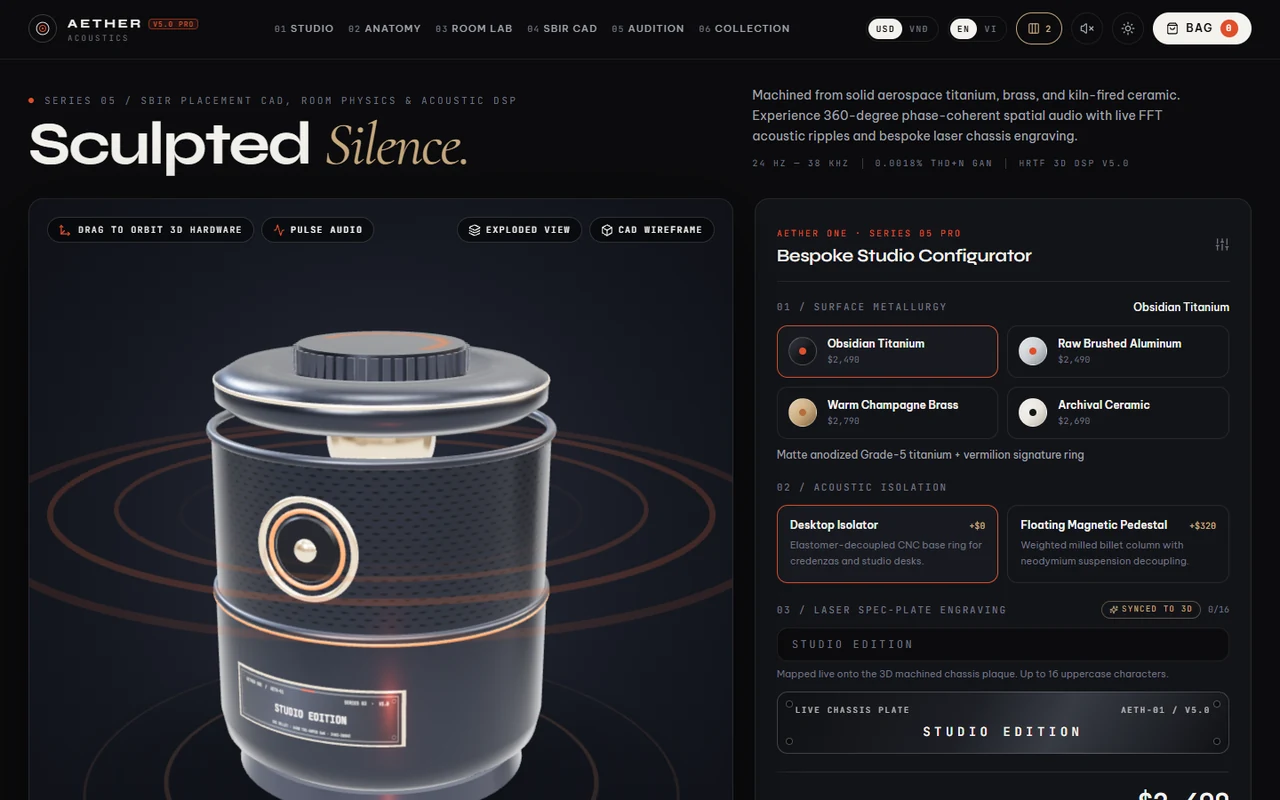
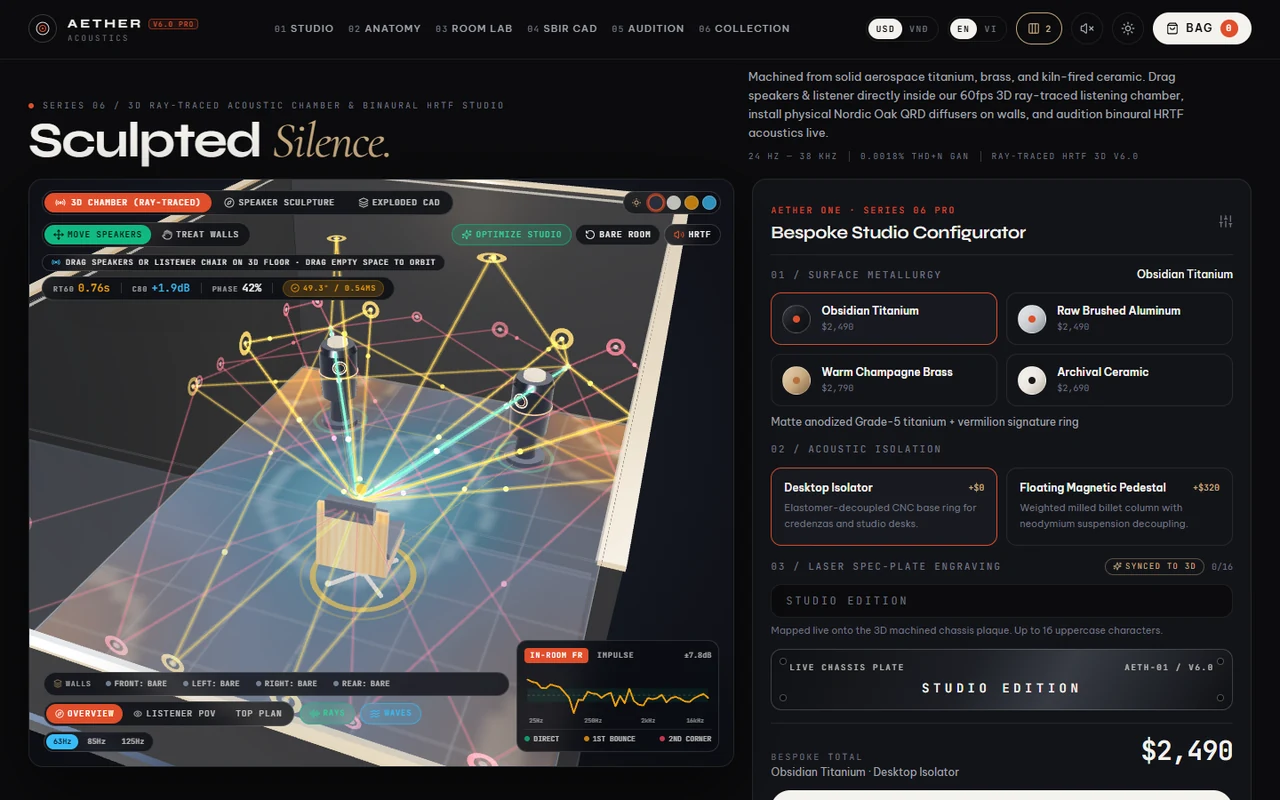
feat(v9.0): sync 6 Frontier Flagships (Chronos v4, Aether v6, AegisPulse v7, Maison v7, FleetPulse v4, Verdict v6) & 4,500 CI

diff --git a/src/engines/catalog.ts b/src/engines/catalog.ts
@@ -27,14 +27,14 @@ export const CATALOG_PRODUCTS: TemplateProduct[] = [
   {
     id: 'maison-vera',
     sku: 'TVT-3D-01',
-    name: 'Maison Véra 3D v6.0',
+    name: 'Maison Véra 3D v7.0',
     subtitle: {
-      vi: 'Website Thời Trang & Kính Mắt 3D HDRI, Tròng UV & Đo Khuôn Mặt',
-      en: 'Luxury 3D HDRI Eyewear, UV Polarized Lens Lab & Bespoke Fit',
+      vi: 'Thử Kính 3D Virtual Try-On, Webcam AR, Tròng UV 0–11 & Phân Cực Malus',
+      en: 'Live 3D Virtual Try-On Studio, Webcam AR, UV 0–11 Photochromic & Malus Glare',
     },
     tagline: {
-      vi: 'Trình diễn gọng titan 3D phản chiếu HDRI studio, mô phỏng tròng đổi màu UV/phân cực trực tiếp, phân tích dáng khuôn mặt & Lookbook VIP.',
-      en: 'PMREM Studio HDRI titanium 3D eyewear, photochromic UV & polarized lens physics simulator, face-shape fit studio & private client lookbook.',
+      vi: 'Studio Thử Kính 3D Parisian: tượng điêu khắc Alabaster xoay 6-DOF đeo đúng kính titan vừa cấu hình, 4 dáng mặt + điểm Fit %, Webcam AR trực tiếp, kéo chỉ số UV 0–11 đổi màu tròng & màn cắt chói phân cực Malus -99.4%.',
+      en: 'Parisian 3D Virtual Try-On Studio: sculpted Travertine bust wearing your live-configured titanium frame across 4 face archetypes + Atelier Fit %, on-demand Webcam AR, UV 0–11 photochromic darkening & Malus -99.4% glare split curtain.',
     },
     category: 'commerce-3d',
     categoryLabel: {
@@ -50,38 +50,38 @@ export const CATALOG_PRODUCTS: TemplateProduct[] = [
     liveUrl: 'https://tvt987.github.io/maison-vera/',
     previewImage: './media/maison-vera.webp',
     featuredRank: 14,
-    stack: ['.NET 10', 'Optical Rx Lab', '1.50 vs 1.74', 'PMREM 3D'],
+    stack: ['.NET 10', 'Three.js 3D Try-On', 'Webcam AR', 'UV + Malus'],
     deliverables: {
       vi: [
-        'Tùy biến toàn bộ nhận diện thương hiệu, màu sắc, bộ ảnh và SKU sản phẩm',
-        'Trình xoay 3D PBR ánh sáng studio mượt 60fps trên Desktop & Mobile',
-        'Giỏ hàng, mã ưu đãi, đặt lịch thử kính tại boutique & form đơn hàng',
+        'Studio Thử Kính 3D Virtual Try-On (4 dáng mặt, đo PD, chấm điểm Fit %) & bật Webcam AR trực tiếp',
+        'Kéo chỉ số UV 0–11 xem tròng Photochromic tối màu trực tiếp + màn cắt chói Riviera phân cực Malus -99.4%',
+        'Xuất ảnh chân dung thử kính Editorial 1200×800 PNG + Chế độ tách lớp 3D CAD & Lookbook Paris',
         'Triển khai Hosting, gắn Domain riêng, SSL & tối ưu SEO OpenGraph',
       ],
       en: [
-        'Complete brand customization across typography, palette, imagery, and SKUs',
-        '60fps WebGL PBR 3D studio showcase calibrated for desktop & mobile',
-        'Shopping bag, promo code engine, private fitting booking & order capture',
+        'Live 3D Virtual Try-On Studio (4 face shapes, PD fit score) plus privacy-first browser Webcam AR',
+        'Real-time UV 0–11 photochromic lens darkening & draggable Malus -99.4% Riviera glare split curtain',
+        '1-click 1200×800 Editorial Try-On Portrait PNG export, 3D CAD exploded view & Parisian lookbook',
         'Custom domain deployment, SSL, CI/CD workflow & SEO OpenGraph optimization',
       ],
     },
     architectureNote: {
-      vi: 'Full-Stack Monorepo .NET 10 + Three.js PMREM HDRI & Optical Rx Lab (1.50 vs 1.74), OpenAPI 3.1 + Docker sẵn sàng vận hành.',
-      en: 'Full-Stack .NET 10 monorepo pairing PMREM 3D eyewear, Optical Rx Lab (1.50 vs 1.74), OpenAPI 3.1 & multi-stage Docker.',
+      vi: 'Full-Stack Monorepo .NET 10 + Studio Thử Kính 3D Three.js PMREM, Webcam AR 6-DOF, Photochromic UV 0–11 & Optical Rx Lab.',
+      en: 'Full-Stack .NET 10 monorepo pairing Three.js PMREM 3D Virtual Try-On, Webcam AR 6-DOF pose smoothing, UV 0–11 & Optical Rx Lab.',
     },
-    metricsBadge: '3D HDRI TITANIUM · UV LENS LAB',
+    metricsBadge: '3D VIRTUAL TRY-ON · WEBCAM AR · UV 0–11',
   },
   {
     id: 'aether-acoustics',
     sku: 'TVT-3D-02',
-    name: 'Aether Acoustics 3D v5.0',
+    name: 'Aether Acoustics 3D v6.0',
     subtitle: {
-      vi: 'Website Âm Thanh 3D, Radar Không Gian HRTF & Phòng RT60',
-      en: '3D Spatial Audio, Binaural HRTF Radar & Room RT60 Acoustic Lab',
+      vi: 'Phòng Nghe 3D Ray-Traced Bắn Tia Âm, Lắp Gỗ Tán Âm QRD 3D & HRTF',
+      en: 'Live 3D Ray-Traced Acoustic Chamber, Install 3D Oak QRD Diffusers & HRTF',
     },
     tagline: {
-      vi: 'Radar điểm ngọt âm thanh không gian HRTF kéo thả, mô phỏng vật liệu tiêu âm phòng nghe tính RT60, đồ thị đáp tuyến tần số & THD+N.',
-      en: 'Interactive Binaural 3D HRTF soundstage radar, room material RT60 physics simulator, live 20Hz–20kHz frequency response & THD+N.',
+      vi: 'Phòng nghe 3D Ray-Traced 60fps: chùm tia âm phản xạ 3 bậc bắn thật từ loa dội tường, bản đồ sóng đứng dưới sàn, kéo loa/ghế trực tiếp trong 3D & click tường lắp tấm gỗ tán âm Oak QRD 3D giảm RT60 0.76s -> 0.32s.',
+      en: '60fps 3D Ray-Traced Acoustic Chamber: volumetric 3-order reflected sound beams, live floor standing-wave heatmap, drag speakers/chair in 3D & click walls to mount physical 3D Oak QRD diffusers dropping RT60 from 0.76s to 0.32s.',
     },
     category: 'commerce-3d',
     categoryLabel: {
@@ -97,26 +97,26 @@ export const CATALOG_PRODUCTS: TemplateProduct[] = [
     liveUrl: 'https://tvt987.github.io/aether-acoustics/',
     previewImage: './media/aether-acoustics.webp',
     featuredRank: 16,
-    stack: ['.NET 10', 'Room Modes Lab', 'Sabine RT60', 'Biquad DSP'],
+    stack: ['.NET 10', 'Three.js Ray-Traced', '3D Oak QRD', 'Binaural HRTF'],
     deliverables: {
       vi: [
-        'Bản dựng sản phẩm 3D vật liệu nhôm/titan và chuyển đổi phiên bản màu trực tiếp',
-        'Module thử âm học DSP trực quan tạo khác biệt tuyệt đối trước đối thủ',
-        'Trang cấu hình phiên bản, bảng thông số kỹ thuật & giỏ hàng đặt mua',
-        'Tối ưu tải tài nguyên WebP/DRACO, bàn giao trọn bộ hướng dẫn vận hành',
+        'Phòng nghe 3D Ray-Traced hiển thị tia âm trực tiếp + phản xạ tường 2 bậc + sóng đứng áp suất dưới sàn',
+        'Kéo thả loa & ghế nghe trực tiếp trong 3D (Cardas Sweet Spot) + Click tường lắp gỗ tán âm QRD & Bass Trap 3D',
+        'Âm thanh Binaural HRTF Web Audio đổi sắc thái thật giữa phòng trần bê tông và phòng đã xử lý âm học',
+        'Kèm sân khấu soi cận cảnh loa 3D PBR tách lớp CAD, khắc laser thân máy & tối ưu tải WebP/Lazy-Split',
       ],
       en: [
-        'Brushed titanium/anodized 3D hardware viewer with instant colorway switching',
-        'Interactive acoustic DSP preview module elevating product conversion',
-        'Spec matrix, colorway configurator, and streamlined checkout pipeline',
-        'Compressed asset pipeline with full deployment & handover documentation',
+        '3D Ray-Traced Listening Chamber visualizing direct beams, 2-order wall bounces & floor standing-wave modes',
+        'Direct 3D drag of speakers & listener chair (Cardas Sweet Spot) + click walls to mount 3D Oak QRD diffusers & bass traps',
+        'Live Binaural HRTF Web Audio DSP shifting audibly between bare concrete and treated studio acoustics',
+        'Includes sculptural 3D PBR speaker closeup, exploded CAD, laser chassis plaque & lazy-split bundle',
       ],
     },
     architectureNote: {
-      vi: 'Full-Stack Monorepo .NET 10 + Room Modes Lab, mô phỏng Sabine RT60 & Web Audio Biquad DSP không phụ thuộc thư viện nặng.',
-      en: 'Full-Stack .NET 10 monorepo combining Room Modes Lab, Sabine RT60 physics & zero-dependency Biquad Web Audio DSP.',
+      vi: 'Full-Stack Monorepo .NET 10 + Phòng nghe 3D Three.js Ray-Traced, lắp tấm tán âm QRD 3D, Sabine RT60 & Web Audio HRTF.',
+      en: 'Full-Stack .NET 10 monorepo combining Three.js 3D ray-traced acoustics, physical 3D QRD diffusers, Sabine RT60 & Web Audio HRTF.',
     },
-    metricsBadge: '3D FFT AUDIO · ROOM RT60 EQ',
+    metricsBadge: '3D RAY-TRACED CHAMBER · OAK QRD · HRTF',
   },
   {
     id: 'lumina-medspa',
@@ -359,14 +359,14 @@ export const CATALOG_PRODUCTS: TemplateProduct[] = [
   {
     id: 'verdict-graph',
     sku: 'TVT-AI-08',
-    name: 'Verdict Graph AI v5.0',
+    name: 'Verdict Graph AI v6.0',
     subtitle: {
-      vi: 'Hệ Thống Điều Phối Multi-Agent DAG, Time-Travel Diff & FinOps',
-      en: 'Multi-Agent DAG Builder, Time-Travel Diff & LLM FinOps Router',
+      vi: 'Canvas Kéo-Thả Agent 60fps, Tiêm Tấn Công Trên Dây, Breakpoint & Fork Race',
+      en: 'Drag-and-Wire Multi-Agent Debugger, Edge Attack Injector, Breakpoints & Fork Race',
     },
     tagline: {
-      vi: 'Trình dựng luồng AI Agent đa bước, nhân bản nhánh Time-Travel so sánh Diff, bộ định tuyến chi phí đa mô hình & kiểm thử Red-Team OWASP Top-10.',
-      en: 'Interactive multi-agent DAG builder, time-travel branch diffing, multi-model FinOps cost/latency router & OWASP LLM Top-10 Red-Team suite.',
+      vi: 'LangSmith × xyflow Visual Debugger: kéo-thả 7 node agent nối dây động 60fps, click dây tiêm Prompt Injection INJ-EXFIL-001 bị OWASP chặn 0B, đặt Red Breakpoint chỉnh sống State JSON & đua song song 2 nhánh Time-Travel Fork (-54% chi phí).',
+      en: 'LangSmith × xyflow Visual Debugger: drag-and-rewire 7 agent nodes at 60fps, click any wire to inject Prompt Injection / 429 mid-flight deflected by OWASP Firewall (0B leak), toggle Red Breakpoints to edit live State JSON & race Dual Time-Travel Forks (-54% cost).',
     },
     category: 'saas-ai',
     categoryLabel: {
@@ -382,38 +382,38 @@ export const CATALOG_PRODUCTS: TemplateProduct[] = [
     liveUrl: 'https://tvt987.github.io/verdict-graph/',
     previewImage: './media/verdict-graph.webp',
     featuredRank: 6,
-    stack: ['FastAPI', 'OWASP Firewall', 'Token Breaker', 'DAG Replay'],
+    stack: ['FastAPI', 'Drag-Wire AG-UI', 'OWASP Shield', 'Dual Fork Race'],
     deliverables: {
       vi: [
-        'Đồ thị trực quan điều phối các nút Agent, Tool-Calling, Reranker & Human-in-the-Loop',
-        'Bảng giám sát chi phí Token, độ trễ từng bước (P50/P95) & nhật ký audit đầy đủ',
-        'Bộ kiểm thử đánh giá tự động chất lượng câu trả lời LLM chống ảo giác',
-        'Sẵn sàng kết nối FastAPI, LangGraph, OpenAI / Gemini / Ollama doanh nghiệp',
+        'Canvas đa tác tử kéo-thả node 60fps kèm luồng gói tin AG-UI SSE / MCP 2.0 JSON-RPC bay thực tế trên dây',
+        'Click thẳng vào dây nối để tiêm gói Prompt-Injection / 429 / Hallucination kiểm chứng tường lửa OWASP LLM10',
+        'Đặt Red Breakpoint ● BP tạm dừng giữa luồng, chỉnh sống Agent State JSON & bấm Step Over hoặc Fork',
+        'Đua song song 2 nhánh Time-Travel Fork (Main vs Guarded Cascade: -54% USD, +0.38 Groundedness)',
       ],
       en: [
-        'Visual DAG inspector for multi-agent steps, tool calls, rerankers & human approvals',
-        'Real-time token budget accounting, step latency profiling (P50/P95) & audit trails',
-        'Automated LLM verdict evaluation harness against hallucination & policy drift',
-        'Adapter-ready frontend for FastAPI, LangGraph, Gemini, OpenAI, or local vLLM',
+        '60fps draggable multi-agent canvas with live AG-UI SSE & MCP 2.0 JSON-RPC packets traveling curved wires',
+        'Click-edge mid-flight fault injector (Prompt Injection / 429 / Hallucination) testing OWASP LLM10 deflection',
+        'Per-node Red Breakpoints pausing mid-flight with live editable State JSON & Step Over / Fork controls',
+        'Side-by-side Dual-Branch Time-Travel Fork Race proving -54% USD cost & 0.99 groundedness lift',
       ],
     },
     architectureNote: {
-      vi: 'Full-Stack Monorepo FastAPI chuẩn AI Ops: tường lửa OWASP LLM Top-10, ngắt mạch Token Breaker & phát lại DAG Time-Travel.',
-      en: 'Full-Stack FastAPI AI Ops monorepo with OWASP LLM firewall, automatic Token Circuit Breaker & deterministic DAG replay.',
+      vi: 'Full-Stack Monorepo FastAPI chuẩn LangGraph × AG-UI: Canvas kéo-thả node, tiêm tấn công trên dây, OWASP LLM10 & Dual Fork Race.',
+      en: 'Full-Stack FastAPI AI Ops monorepo uniting drag-and-wire AG-UI/MCP debugging, mid-flight OWASP LLM firewall & dual time-travel fork racing.',
     },
-    metricsBadge: 'MULTI-AGENT DAG · RED-TEAM',
+    metricsBadge: 'DRAG-WIRE DEBUGGER · OWASP · FORK RACE',
   },
   {
     id: 'aegispulse',
     sku: 'TVT-ENT-09',
-    name: 'AegisPulse SRE v6.0',
+    name: 'AegisPulse SRE v7.0',
     subtitle: {
-      vi: 'Kiến Trúc SRE Phân Tán .NET 10, Chaos Raft & Flamegraph',
-      en: 'Distributed .NET 10 SRE, Raft Chaos Injector & GC Flamegraph',
+      vi: 'Sàn Chaos-Scissors Cắt Dây Mạng 5 Vùng, Bầu Raft, Bão 500 Voucher & Jepsen DST',
+      en: 'DST Chaos-Scissors 5-Region Cluster, Live Raft Partition, 500-Req Storm & Jepsen',
     },
     tagline: {
-      vi: 'Bảng điều khiển SRE 5 khu vực toàn cầu: tiêm lỗi Chaos Raft Quorum, kéo tải 250K RPS trực tiếp, Flamegraph CPU/GC Pause & Hybrid RAG.',
-      en: '5-region Raft consensus Chaos Fault Injector, live 250K RPS stress slider, interactive CPU/GC Flamegraph profiler & enterprise Hybrid RAG.',
+      vi: 'Sân chơi Chaos phân tán chuẩn TigerBeetle DST: cầm kéo Scissors click cắt dây mạng dựng tường Partition Wall 2v3, đánh sập/hồi sinh node, xả bão 500 voucher so sánh Naive nổ leak vs Redis Lua + ROWVERSION 0% rò rỉ, tua Jepsen Timeline & Hybrid RAG.',
+      en: 'TigerBeetle-style DST Chaos Playground: click links with Chaos Scissors to sever 5 global regions with a live 2v3 Partition Wall, crash/revive nodes, blast 500-req voucher storms (Naive leaks vs Redis Lua 0% leak), scrub Jepsen Linearizability Timeline & Hybrid RAG.',
     },
     category: 'saas-ai',
     categoryLabel: {
@@ -429,26 +429,26 @@ export const CATALOG_PRODUCTS: TemplateProduct[] = [
     liveUrl: 'https://tvt987.github.io/aegispulse-distributed-sre/',
     previewImage: './media/aegispulse.webp',
     featuredRank: 5,
-    stack: ['.NET 10', '500-Req Race', '0.00% Leak', 'k6 5K RPS'],
+    stack: ['.NET 10', 'DST Chaos Scissors', 'Raft 5-Region', 'Redis Lua 0%'],
     deliverables: {
       vi: [
-        'Kiến trúc phân tán chịu tải cao kế thừa thực chiến hệ thống 700+ siêu thị',
-        'Bảng điều khiển SRE giám sát RPS, P99 latency, Circuit Breaker & chống nhân đôi voucher',
-        'Pipeline tìm kiếm Hybrid RAG (BM25 + Dense Vector + Reranking) cho tài liệu nội bộ',
-        'Kèm buổi tư vấn kiến trúc trực tiếp 1-1 với Solution Architect để áp dụng vào hệ thống thật',
+        'Sàn mô phỏng 5 vùng cụm phân tán 60fps: kéo Chaos Scissors cắt dây mạng, dựng tường Split-Brain 2v3 & bầu Raft',
+        'Xả bão 500 voucher đồng thời đối chiếu trực quan Naive RMW nổ double-spend vs Redis Lua + ROWVERSION 0% rò rỉ',
+        'Hệ thống Deterministic Simulation Testing (DST Seed phát lại 1:1) kèm thanh thời gian tuyến tính Jepsen 5 làn',
+        'Kèm Hybrid RAG SRE, Rate-Limiter Lab, SQL Execution Plan & tư vấn kiến trúc thực chiến 700+ siêu thị',
       ],
       en: [
-        'Battle-tested distributed system blueprint proven across 700+ retail stores',
-        'Live SRE control plane tracking RPS, P99 latency, circuit breakers & idempotent locks',
-        'Enterprise Hybrid RAG pipeline (BM25 + Dense Embeddings + Reranking)',
-        'Includes 1-on-1 architecture handover workshop for your engineering team',
+        '60fps 5-region distributed cluster arena: cut links with Chaos Scissors, trigger 2v3 Split-Brain & live Raft elections',
+        'Blast 500-req concurrent voucher storms contrasting Naive RMW leak explosions vs Redis Lua + ROWVERSION 0% leak',
+        'Deterministic Simulation Testing (editable DST Seed replay) with 5-track Jepsen Linearizability Time-Travel Scrubber',
+        'Includes Hybrid RAG SRE, Rate-Limiter Lab, SQL Execution Plan & 700+ store architecture handover',
       ],
     },
     architectureNote: {
-      vi: 'Full-Stack Monorepo .NET 10 kiểm chứng thực chiến 500-request concurrency race (0.00% double-spend leak) & kịch bản chịu tải k6 5K RPS.',
-      en: 'Full-Stack .NET 10 distributed SRE engine verified against 500-request race storms (0.00% leak) & k6 5K RPS load benchmarks.',
+      vi: 'Full-Stack Monorepo .NET 10 kết hợp Deterministic Simulation Testing (DST), kéo Chaos Scissors, Raft 5 vùng & Hybrid RAG.',
+      en: 'Full-Stack .NET 10 distributed SRE arena pairing Deterministic Simulation Testing (DST), Chaos Scissors, 5-region Raft & Hybrid RAG.',
     },
-    metricsBadge: '139K RPS .NET 10 · HYBRID RAG',
+    metricsBadge: 'DST CHAOS SCISSORS · RAFT · HYBRID RAG',
   },
   {
     id: 'aurelia-resort',
@@ -993,14 +993,14 @@ export const CATALOG_PRODUCTS: TemplateProduct[] = [
   {
     id: 'chronos-horology',
     sku: 'TVT-LUX-20',
-    name: 'Chronos 3D Watch v3.0',
+    name: 'Chronos 3D Watch v4.0',
     subtitle: {
-      vi: 'Bộ Máy Đồng Hồ Cơ Tourbillon 3D Chạy Thật, Âm Thanh 4Hz & Boutique Thụy Sĩ',
-      en: 'Working 3D Mechanical Tourbillon Calibre, 4Hz Escapement Synth & Swiss Boutique',
+      vi: 'Bàn Chế Tác Tourbillon 3D: Lên Cót Núm, Kính Lúp 10× & Nam Châm 15.000G',
+      en: 'Interactive 3D Watchmaker Bench: Wind Crown, 10× Loupe & 15,000G Magnet Lab',
     },
     tagline: {
-      vi: 'Siêu Phẩm 26,9 Triệu: Bộ máy đồng hồ cơ Tourbillon 3D Three.js hoạt động thật 60fps (bánh răng ăn khớp, cầu cân bằng 28,800 vph, tách 7 tầng máy, dạ quang Lume Night, âm thanh bộ thoát 4Hz Web Audio) & chứng nhận COSC A4.',
-      en: '26.9M Ultra-Flagship: Live animated 3D mechanical Tourbillon calibre (28,800 vph balance, meshed gear train, 7-layer exploded view, Lume Night, Web Audio 4Hz escapement synth) & COSC A4 certification.',
+      vi: 'Bàn Chế Tác Geneva 3D Tương Tác Thật: Vặn núm cót 3D lên dây 0→72h kèm tiếng bánh cóc Web Audio, bấm 2 nút Chronograph Flyback 3D, kéo kính lúp quang học 10× soi lồng Tourbillon 28,800 vph & kéo nam châm 15.000G 3D so sánh dây tóc Nivarox vs Silicon.',
+      en: 'Interactive Geneva 3D Watchmaker Bench: Wind the fluted 3D crown (0→72h) with Web Audio ratchet clicks, press 3D Flyback Chronograph pushers, drag a 10× optical magnifying loupe over the 28,800 vph tourbillon & stress-test with a 3D 15,000G magnet.',
     },
     category: 'commerce-3d',
     categoryLabel: { vi: 'Bán Hàng 3D & Nội Thất', en: '3D Commerce & Interior' },
@@ -1012,28 +1012,28 @@ export const CATALOG_PRODUCTS: TemplateProduct[] = [
     deliveryDaysMax: 8,
     liveUrl: 'https://tvt987.github.io/chronos-horology/',
     previewImage: './media/chronos-horology.webp',
-    previewBadge: '3D TOURBILLON CALIBRE · 4HZ AUDIO · 26.9M',
+    previewBadge: '3D WATCHMAKER BENCH · 10X LOUPE · 15,000G',
     featuredRank: 4,
-    stack: ['.NET 10', 'Timegrapher', '7-Layer Caliber', 'HMAC Vault'],
+    stack: ['.NET 10', 'Three.js 3D Watch', '10x Loupe', '15,000G Magnet'],
     deliverables: {
       vi: [
-        'Bộ máy Tourbillon 3D Three.js HDRI chạy thật: bánh răng ăn khớp tỷ số chính xác, tách 7 tầng máy & 7 góc camera macro',
-        'Chế độ dạ quang Super-LumiNova, bấm giờ Chronograph có Split-Lap & âm thanh bộ thoát 28.800 vph tổng hợp Web Audio',
-        'Phòng lab vật lý COSC 6 vị trí trọng lực, mô phỏng mô-men dây cót 72 giờ & khắc laser nắp đáy 3D thời gian thực',
-        'Tùy biến 4 kim loại quý (Vàng hồng 18K / Titan / Carbon / Platinum), Collector Vault & Chứng nhận COSC A4 QR',
+        'Tương tác cơ học 3D trực tiếp: vặn núm 3H lên dây cót 0→72h, bấm nút 2H/4H chạy Chronograph Flyback & tách 7 tầng máy',
+        'Kính lúp quang học 10× APO kéo soi trực tiếp lồng Tourbillon 28.800 vph (2.6× phóng đại sắc nét trên WebGL)',
+        'Phòng thử nam châm Neodymium 15.000 Gauss 3D kèm máy đo Witschi trực tiếp (Nivarox nhiễu đỏ vs Silicon Si-14 miễn nhiễm)',
+        'Tùy biến 4 kim loại quý, khắc laser nắp đáy 3D, Collector Vault HMAC-SHA256 (.NET 10) & Chứng nhận COSC A4',
       ],
       en: [
-        'Live Three.js HDRI mechanical Tourbillon calibre with meshed gear train, 7-layer explode slider & 7 macro cams',
-        'Super-LumiNova night mode, live Split-Lap Chronograph & synthesized 28,800 vph Web Audio escapement acoustics',
-        'ISO 3159 COSC 6-position accuracy lab, 72h barrel torque simulation & live 3D CanvasTexture caseback engraving',
-        '4 haute-horlogerie metals (18K Rose Gold, Grade-5 Ti, Forged Carbon, Pt950), Collector Vault & A4 COSC QR',
+        'Direct 3D mechanical interaction: wind 3H crown (0→72h), press 2H/4H Flyback Chronograph pushers & 7-layer explode scrubber',
+        'Draggable 10× APO optical watchmaker loupe magnifying the live 28,800 vph tourbillon escapement at crisp 2.6× zoom',
+        '3D 15,000 Gauss Neodymium magnet stress-test with live Witschi oscilloscope (Nivarox alarm vs Silicon Si-14 immunity)',
+        '4 haute-horlogerie metals, live 3D caseback engraving, .NET 10 HMAC Vault & printable A4 COSC certificate',
       ],
     },
     architectureNote: {
-      vi: 'Full-Stack Monorepo .NET 10 mô phỏng máy đo Timegrapher COSC, tách 7 tầng bộ máy Tourbillon 3D & kho chứng nhận bảo mật HMAC Vault.',
-      en: 'Full-Stack .NET 10 haute-horlogerie platform with COSC Timegrapher, 7-layer 3D Tourbillon caliber & HMAC Collector Vault.',
+      vi: 'Full-Stack Monorepo .NET 10 + Bàn chế tác Three.js 3D tương tác núm cót/Chronograph, kính lúp 10×, nam châm 15.000G & HMAC Vault.',
+      en: 'Full-Stack .NET 10 haute-horlogerie bench with Three.js 3D crown/chronograph physics, 10× optical loupe, 15,000G magnet & HMAC Vault.',
     },
-    metricsBadge: '3D TOURBILLON CALIBRE · 4HZ AUDIO · 26.9M',
+    metricsBadge: '3D WATCHMAKER BENCH · 10X LOUPE · 15,000G',
   },
   {
     id: 'orbitalflow-saas',
@@ -1128,14 +1128,14 @@ export const CATALOG_PRODUCTS: TemplateProduct[] = [
   {
     id: 'fleetpulse-gis',
     sku: 'TVT-GIS-25',
-    name: 'FleetPulse GIS Fleet v3.0',
+    name: 'FleetPulse GIS 3D v4.0',
     subtitle: {
-      vi: 'Điều Phối Đội Xe Bản Đồ Vector, Tối Ưu Tuyến CVRP & Chuỗi Lạnh -18°C',
-      en: 'Real-Time GIS Vector Fleet Control, CVRP 2-Opt Route Optimizer & Cold-Chain IoT',
+      vi: 'Bản Sao Số Sài Gòn 3D Skyline, Drone Lạnh Bay Vượt Ngập & Bẻ Tuyến A* <1ms',
+      en: 'Live 3D Saigon City Twin, Autonomous Cold-Chain Drones & Flood A* Reroute',
     },
     tagline: {
-      vi: 'Bản đồ điều phối đội xe toàn màn hình: thuật toán CVRP Clarke-Wright + 2-Opt cắt giảm 28,6% quãng đường trong 0,7ms, mô phỏng xe chạy thời gian thực, giám sát chuỗi lạnh -18°C & in lệnh điều vận A4.',
-      en: 'Full-viewport vector city GIS control room: Clarke-Wright + 2-Opt CVRP solver cutting route distance by 28.6% in 0.7ms, animated fleet telemetry, -18°C reefer fault drift & A4 dispatch manifest.',
+      vi: 'Trung tâm điều phối 3D deck.gl-style: Sài Gòn 3D (Landmark 81, Bitexco, cầu Ba Son), click thả mái vòm Ngập Mưa 3D ép xe tải lạnh bẻ tuyến A* <1ms & Drone tự hành cất cánh bay vòng cung vượt ngập cứu -60m SLA + khóa Drone Follow-Cam.',
+      en: 'Live 3D deck.gl-style Saigon Digital Twin (Landmark 81, Bitexco, Ba Son Bridge): click roads to drop Monsoon Flood Domes forcing <1ms A* re-routing while autonomous cold-chain drones fly elevated 3D arcs over floods saving 60m SLA + Drone Follow-Cam.',
     },
     category: 'enterprise-b2b',
     categoryLabel: { vi: 'Doanh Nghiệp, HR & FinTech', en: 'Enterprise, Logistics & FinTech' },
@@ -1147,28 +1147,28 @@ export const CATALOG_PRODUCTS: TemplateProduct[] = [
     deliveryDaysMax: 10,
     liveUrl: 'https://tvt987.github.io/fleetpulse-gis/',
     previewImage: './media/fleetpulse-gis.webp',
-    previewBadge: 'CVRP -28.6% KM · VECTOR GIS · -18°C',
+    previewBadge: '3D SAIGON DRONES · FLOOD A* <1MS · -18°C',
     featuredRank: 7,
-    stack: ['.NET 10', 'CVRP <1ms', 'Shift Scrub', 'PostGIS/MQTT'],
+    stack: ['.NET 10', 'Three.js 3D City', 'Drone Bypass', 'CVRP <1ms'],
     deliverables: {
       vi: [
-        'Bản đồ vector hành lang TP.HCM – Bình Dương – Đồng Nai có phóng to/thu nhỏ, vùng Geofence & xe di chuyển thật',
-        'Bộ giải tối ưu tuyến đa xe có tải trọng & nhiệt độ (Clarke-Wright + 2-Opt) so sánh Trước/Sau tức thì',
-        'Giám sát chuỗi lạnh -18°C/+4°C kèm nút tiêm sự cố kẹt hầm Thủ Thiêm, hỏng máy lạnh & chèn đơn gấp Rush Order',
-        'Tính nhiên liệu, chi phí vận hành, lượng CO2e tiết kiệm, xuất Manifest CSV BOM & Lệnh điều xe A4',
+        'Sài Gòn 3D Skyline tương tác 60fps: Landmark 81, Bitexco, cầu Ba Son, xe tải lạnh & 3 Drone tự hành bay cung 3D',
+        'Click thả vùng Ngập Mưa / Kẹt Xe 3D ép xe bẻ tuyến A* <1ms + Drone cất cánh bay vòng cung vượt ngập cứu SLA',
+        'Khóa Drone Follow-Cam / Street Chase bám sát trực tiếp phương tiện kèm HUD độ cao, nhiệt độ -18°C & chuyển 2D GIS',
+        'Tích hợp trọn bộ CVRP -28.6%, chuỗi lạnh MKT USP <1079>, TCO xe điện 60 tháng & .NET 10 PostGIS/MQTT',
       ],
       en: [
-        'Interactive pan/zoom vector logistics corridor map with geofences, live truck heading & Before/After route diff',
-        'Compartment-aware Clarke-Wright Savings + 2-Opt CVRP optimizer solving 24 stops in <1ms (-28.6% km)',
-        'Cold-chain thermal physics (-18°C/+4°C) with 1-click traffic congestion, reefer fault & rush order injectors',
-        'Fuel/cost/CO2e savings ledger, formula-safe UTF-8 BOM CSV manifest & printable A4 driver dispatch sheet',
+        '60fps 3D Saigon Urban Twin (Landmark 81, Bitexco, Ba Son Bridge) with live refrigerated vans & 3 quadcopter drones',
+        'Click roads to drop Monsoon Flood / Jam Hazard Domes forcing <1ms A* rerouting & elevated 3D drone air-bypass arcs',
+        'Cinematic Drone Follow-Cam & Street Chase tracking with live altitude/-18°C HUD + 1-click 2D Vector GIS mode',
+        'Includes CVRP -28.6% solver, USP <1079> Cold-Chain MKT, 60-mo EV TCO & .NET 10 PostGIS/MQTT API',
       ],
     },
     architectureNote: {
-      vi: 'Full-Stack Monorepo .NET 10 tối ưu tuyến CVRP <1ms, tua lại ca chạy Shift Scrub & kiến trúc PostGIS/MQTT chuỗi lạnh -18°C.',
-      en: 'Full-Stack .NET 10 GIS dispatch engine solving CVRP in <1ms with live Shift Scrub replay & PostGIS/MQTT cold-chain telemetry.',
+      vi: 'Full-Stack Monorepo .NET 10 + Bản sao số Sài Gòn 3D Three.js, Drone bay vượt ngập tự hành, A* CVRP <1ms & PostGIS/MQTT.',
+      en: 'Full-Stack .NET 10 GIS twin pairing a Three.js 3D Saigon skyline, autonomous flood-bypass drones, <1ms A* CVRP & PostGIS/MQTT.',
     },
-    metricsBadge: 'CVRP -28.6% KM · VECTOR GIS · -18°C',
+    metricsBadge: '3D SAIGON DRONES · FLOOD A* <1MS · -18°C',
   },
   {
     id: 'medcore-ehr',

diff --git a/src/engines/__tests__/catalog.test.ts b/src/engines/__tests__/catalog.test.ts
@@ -130,12 +130,12 @@ describe('Catalog Engine', () => {
     expect(engCount).toBe(6);
   });
 
-  it('counts architectural tech stacks accurately across all 26 monorepos (26 / 18 / 8 / 5 / 4)', () => {
+  it('counts architectural tech stacks accurately across all 26 monorepos (26 / 18 / 8 / 6 / 4)', () => {
     const stackCounts = countCatalogStacks(CATALOG_PRODUCTS);
     expect(stackCounts.all).toBe(26);
     expect(stackCounts.dotnet).toBe(18);
     expect(stackCounts.fastapi).toBe(8);
-    expect(stackCounts.threejs).toBe(5);
+    expect(stackCounts.threejs).toBe(6);
     expect(stackCounts['ai-rag']).toBe(4);
   });
 
@@ -153,7 +153,7 @@ describe('Catalog Engine', () => {
     expect(fastapi.some((p) => p.id === 'vectradoc-rag')).toBe(true);
   });
 
-  it('filters Three.js 3D PBR systems (5) and AI / RAG / MCP systems (4) deterministically', () => {
+  it('filters Three.js 3D PBR systems (6) and AI / RAG / MCP systems (4) deterministically', () => {
     const threejsIds = filterCatalogByStack(CATALOG_PRODUCTS, 'threejs')
       .map((p) => p.id)
       .sort();
@@ -161,6 +161,7 @@ describe('Catalog Engine', () => {
       'aeroforge-digital-twin',
       'aether-acoustics',
       'chronos-horology',
+      'fleetpulse-gis',
       'maison-vera',
       'velox-ev-motors',
     ]);

diff --git a/src/components/HeroSection.tsx b/src/components/HeroSection.tsx
@@ -36,7 +36,7 @@ export const HeroSection: React.FC<HeroSectionProps> = ({ locale, onPreviewLive 
       label: locale === 'vi' ? 'Hệ Thống & Pro Tools Live' : 'Live Apps & Pro Tools',
     },
     {
-      value: '4,325',
+      value: '4,500',
       label: locale === 'vi' ? 'Tests Xanh (.NET 10 / FastAPI / UI)' : 'Green Tests (.NET 10 / FastAPI / UI)',
     },
     {
